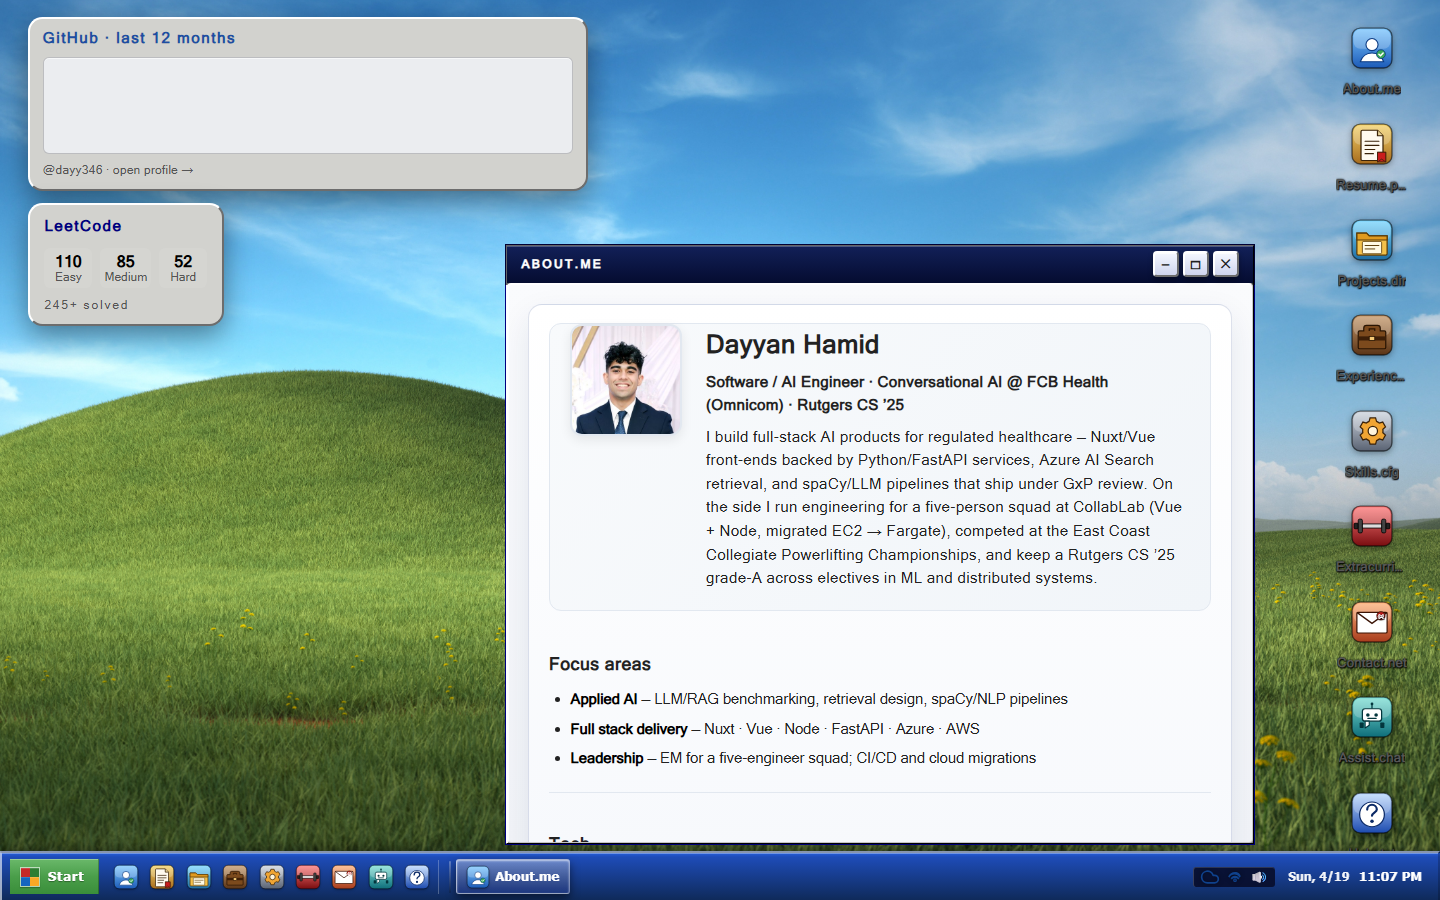
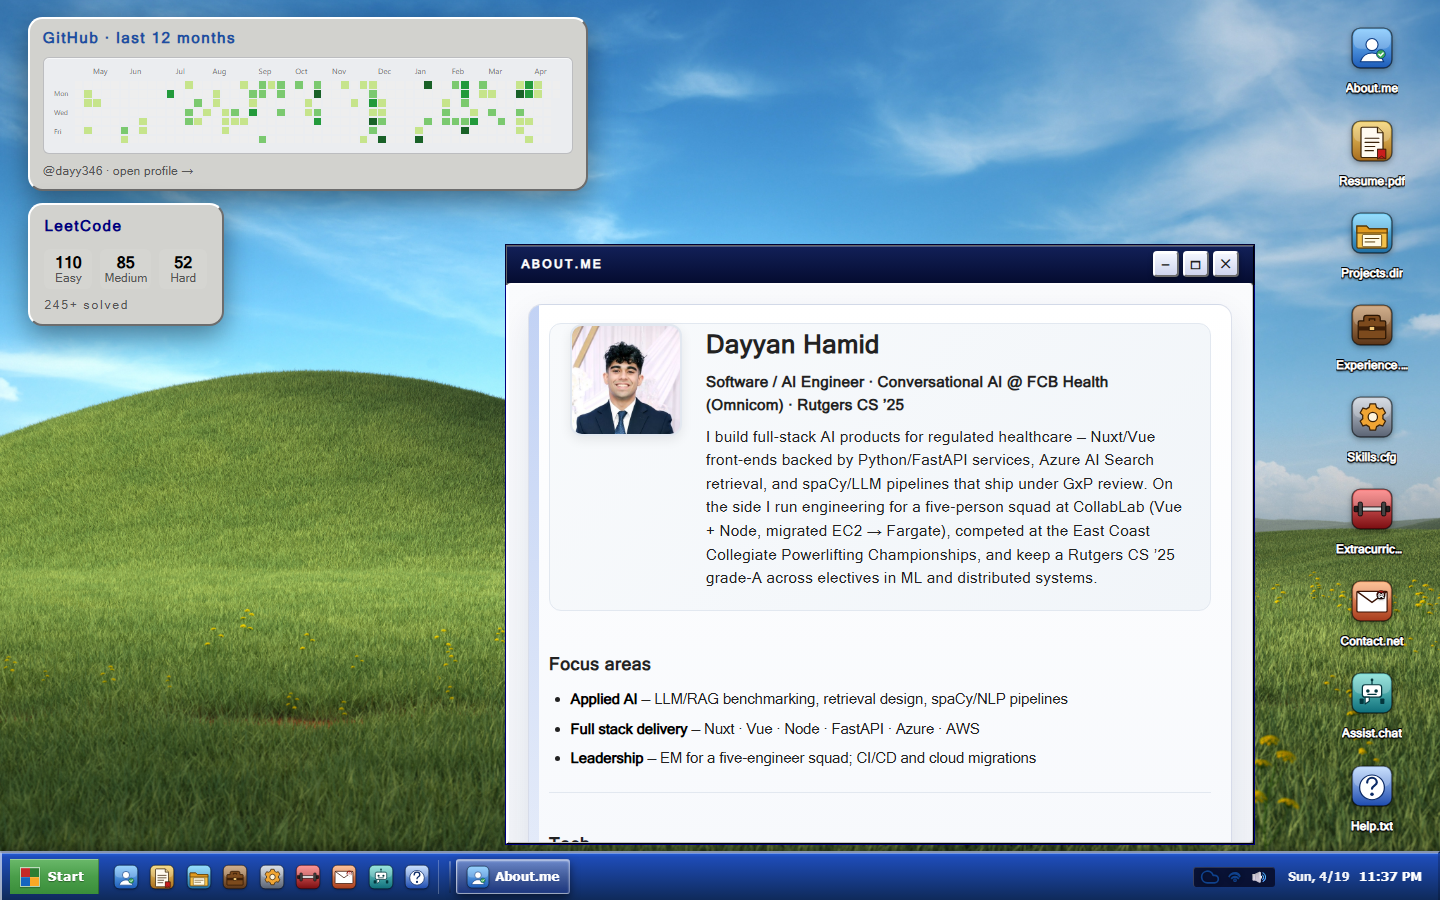
window max fixes + desktop label outline
Made-with: Cursor

diff --git a/src/styles.css b/src/styles.css
@@ -1521,15 +1521,18 @@ small {
   position: absolute;
   top: 0.75rem;
   right: 0.75rem;
-  bottom: 4rem;
+  bottom: calc(49px + 0.75rem);
   display: flex;
   flex-direction: column;
   align-items: flex-end;
-  gap: 0.5rem;
+  gap: 0.4rem;
   padding: 0;
   margin: 0;
   background: transparent;
   z-index: 3;
+  overflow-y: auto;
+  overflow-x: visible;
+  padding-bottom: 0.25rem;
 }
 
 .desktop-icon {
@@ -1543,7 +1546,7 @@ small {
   border-radius: 0;
   background: transparent;
   font-family: var(--win95-font);
-  font-size: 0.78rem;
+  font-size: 0.72rem;
   font-weight: 600;
   color: #ffffff;
   text-align: center;
@@ -1551,9 +1554,15 @@ small {
   box-shadow: none;
   transition: background 0.15s ease;
   text-shadow:
-    0 0 2px rgba(0, 0, 0, 0.95),
-    0 1px 2px rgba(0, 0, 0, 0.85),
-    1px 1px 0 rgba(0, 0, 0, 0.6);
+    -1px -1px 0 #000,
+    0 -1px 0 #000,
+    1px -1px 0 #000,
+    -1px 0 0 #000,
+    1px 0 0 #000,
+    -1px 1px 0 #000,
+    0 1px 0 #000,
+    1px 1px 0 #000,
+    0 2px 2px rgba(0, 0, 0, 0.75);
   box-sizing: border-box;
 }
 
@@ -1632,10 +1641,21 @@ small {
 }
 
 .desktop-icon small {
-  font-size: 0.82rem;
+  font-size: 0.74rem;
   line-height: 1.4;
   font-weight: 600;
   letter-spacing: 0.02em;
+  color: #ffffff;
+  text-shadow:
+    -1px -1px 0 #000,
+    0 -1px 0 #000,
+    1px -1px 0 #000,
+    -1px 0 0 #000,
+    1px 0 0 #000,
+    -1px 1px 0 #000,
+    0 1px 0 #000,
+    1px 1px 0 #000,
+    0 2px 2px rgba(0, 0, 0, 0.75);
   max-width: 100%;
   overflow: hidden;
   text-overflow: ellipsis;
@@ -1675,6 +1695,8 @@ small {
 .window {
   position: absolute;
   min-width: 280px;
+  display: flex;
+  flex-direction: column;
   border: 1px solid #000;
   border-top-color: var(--bevel-light);
   border-left-color: var(--bevel-light);
@@ -1690,8 +1712,8 @@ small {
 .window.maxed {
   left: 0 !important;
   top: 0 !important;
-  width: 100% !important;
-  height: 100% !important;
+  width: 100vw !important;
+  height: calc(100vh - 49px) !important;
   max-width: none;
 }
 
@@ -1810,6 +1832,12 @@ small {
   max-height: min(75vh, 560px);
   overflow-y: auto;
   overflow-x: hidden;
+  flex: 1;
+}
+
+.window.maxed .window-content {
+  max-height: none;
+  height: auto;
 }
 .window-content h1,
 .window-content h2,
